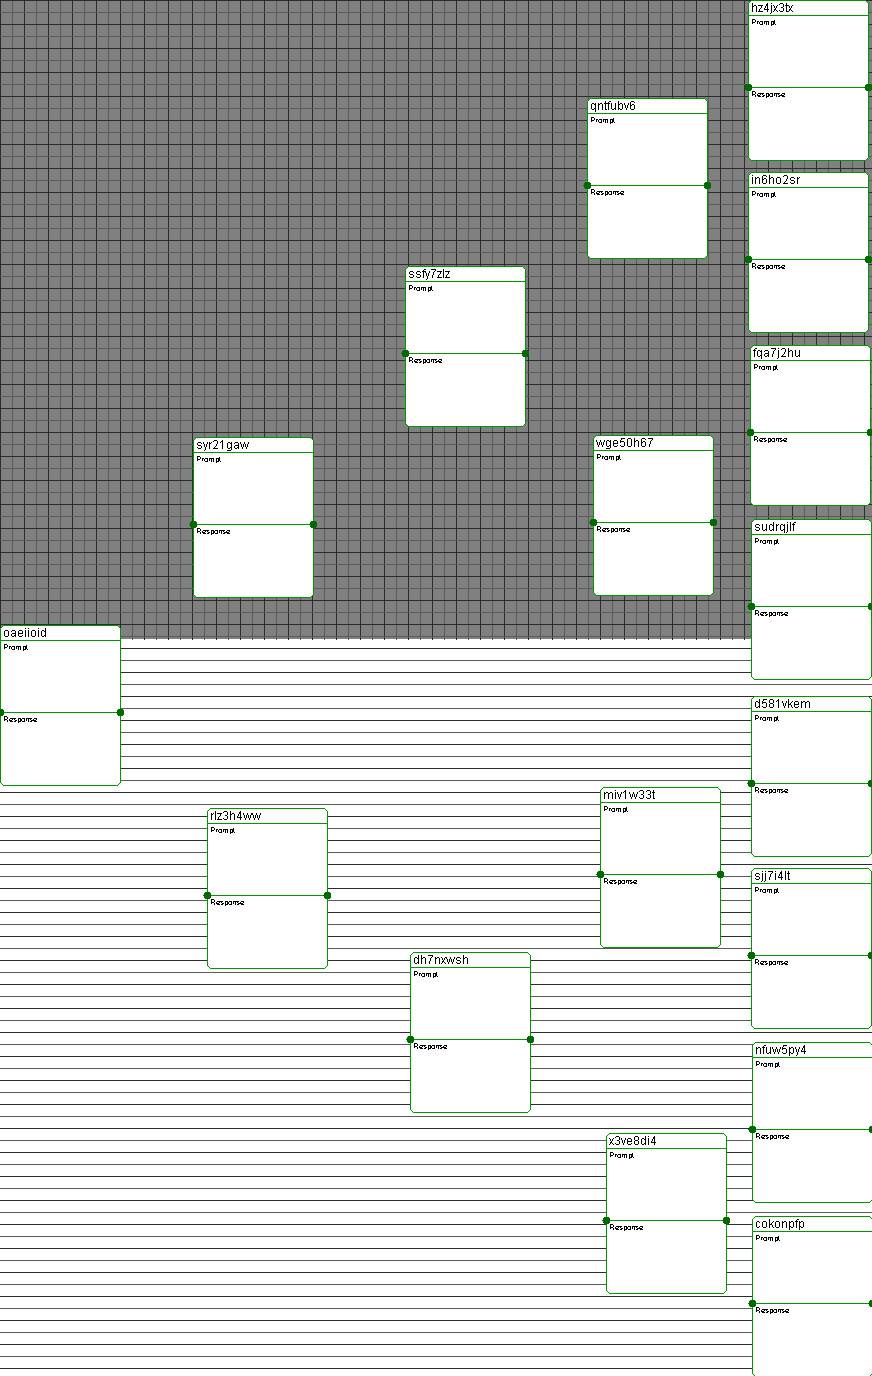
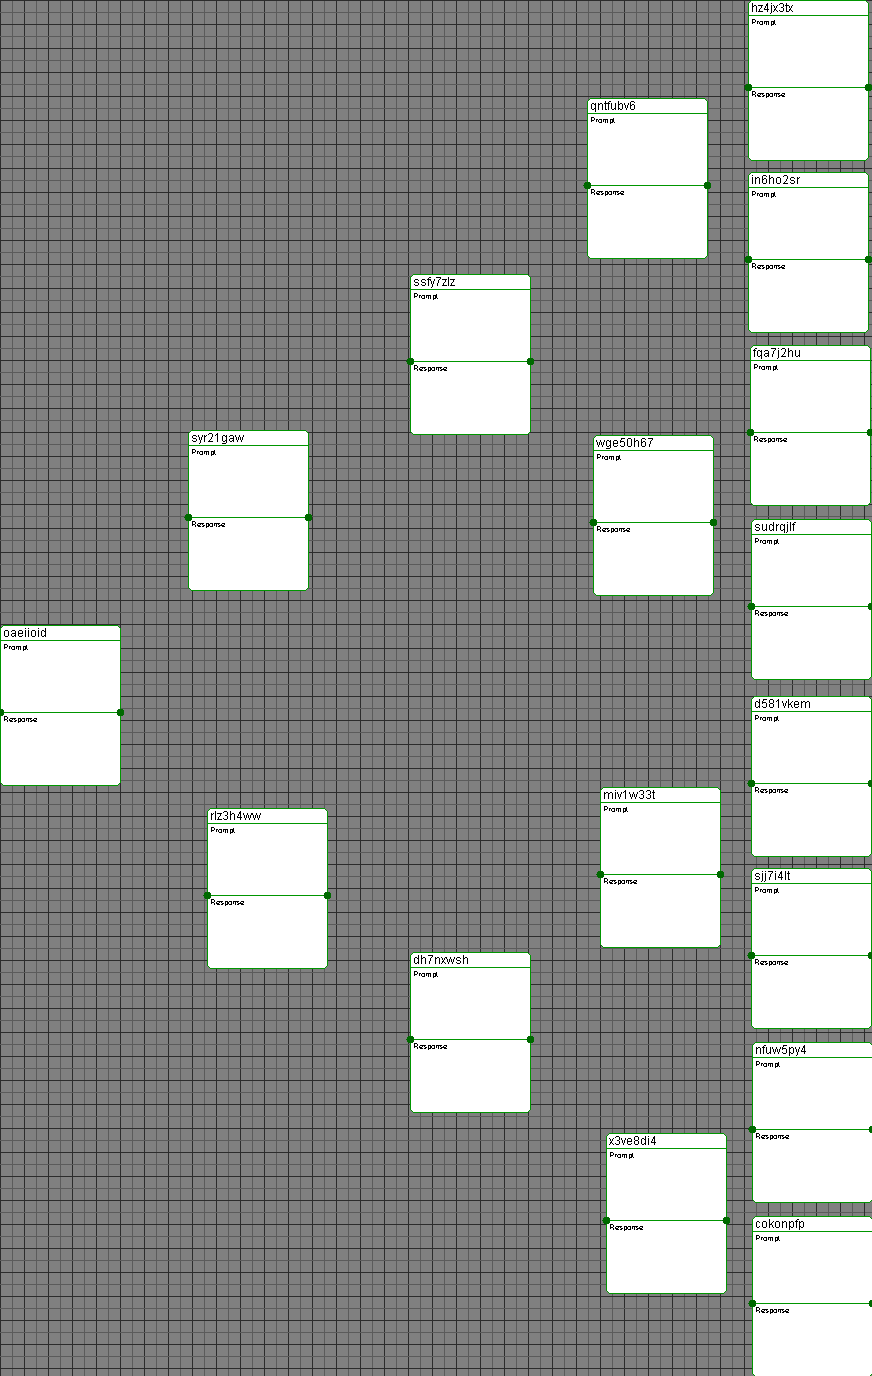
Updating drawing code so we can export to image better.
This still isn't perfect as the connection lines aren't drawing correctly on the image. This should be updated later on.

diff --git a/src/main/java/com/github/vitineth/branch/program/window/primary/BranchComponent.java b/src/main/java/com/github/vitineth/branch/program/window/primary/BranchComponent.java
@@ -162,20 +162,20 @@ public class BranchComponent extends JPanel implements MouseMotionListener, Mous
                 if (xs) {
                     g.setStroke(new BasicStroke(0.8f));
                     g.setColor(c.darker());
-                    g.drawLine(x, 0, x, getHeight());
+                    g.drawLine(x, 0, x, h);
                 } else {
                     g.setStroke(new BasicStroke(1f));
                     g.setColor(c.brighter());
-                    g.drawLine(x, 0, x, getHeight());
+                    g.drawLine(x, 0, x, h);
                 }
                 if (ys) {
                     g.setStroke(new BasicStroke(0.8f));
                     g.setColor(c.darker());
-                    g.drawLine(0, y, getWidth(), y);
+                    g.drawLine(0, y, w, y);
                 } else {
                     g.setStroke(new BasicStroke(1f));
                     g.setColor(c.brighter());
-                    g.drawLine(0, y, getWidth(), y);
+                    g.drawLine(0, y, w, y);
                 }
                 ys = !ys;
             }
